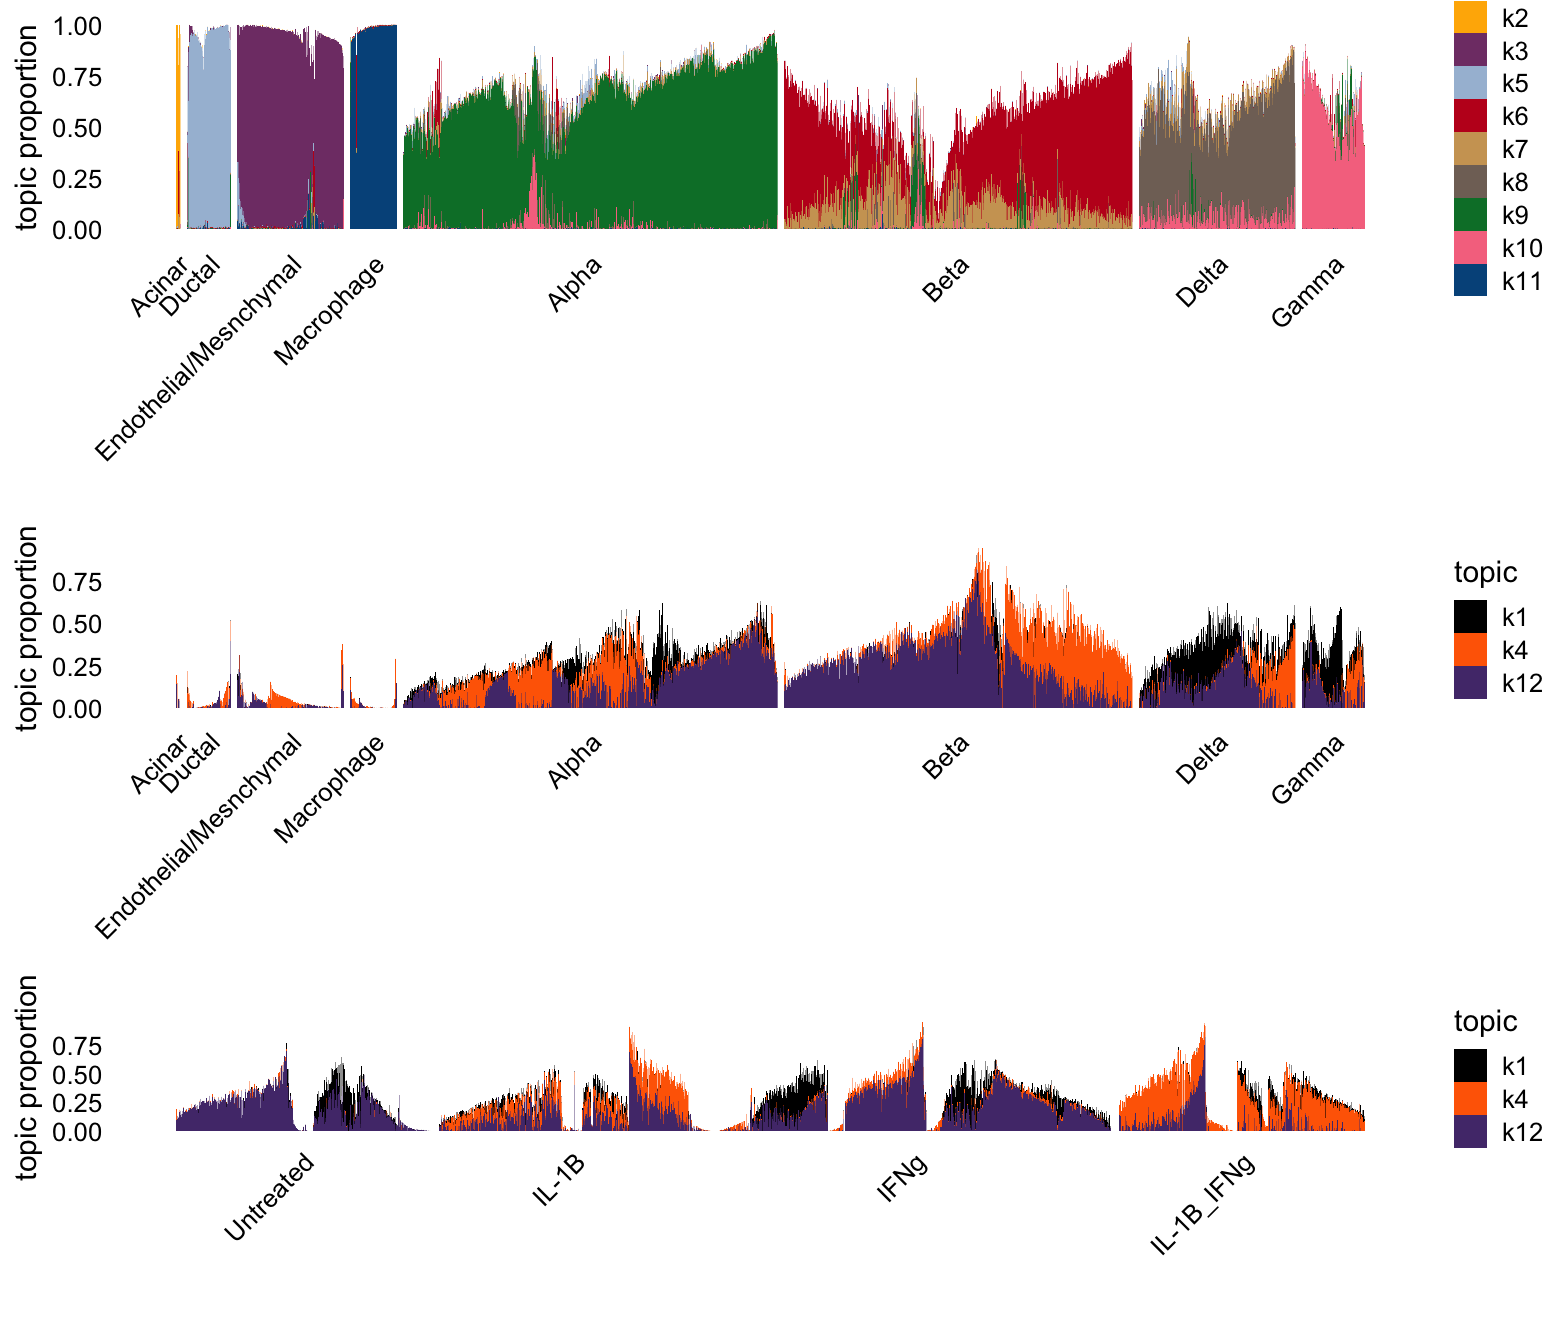
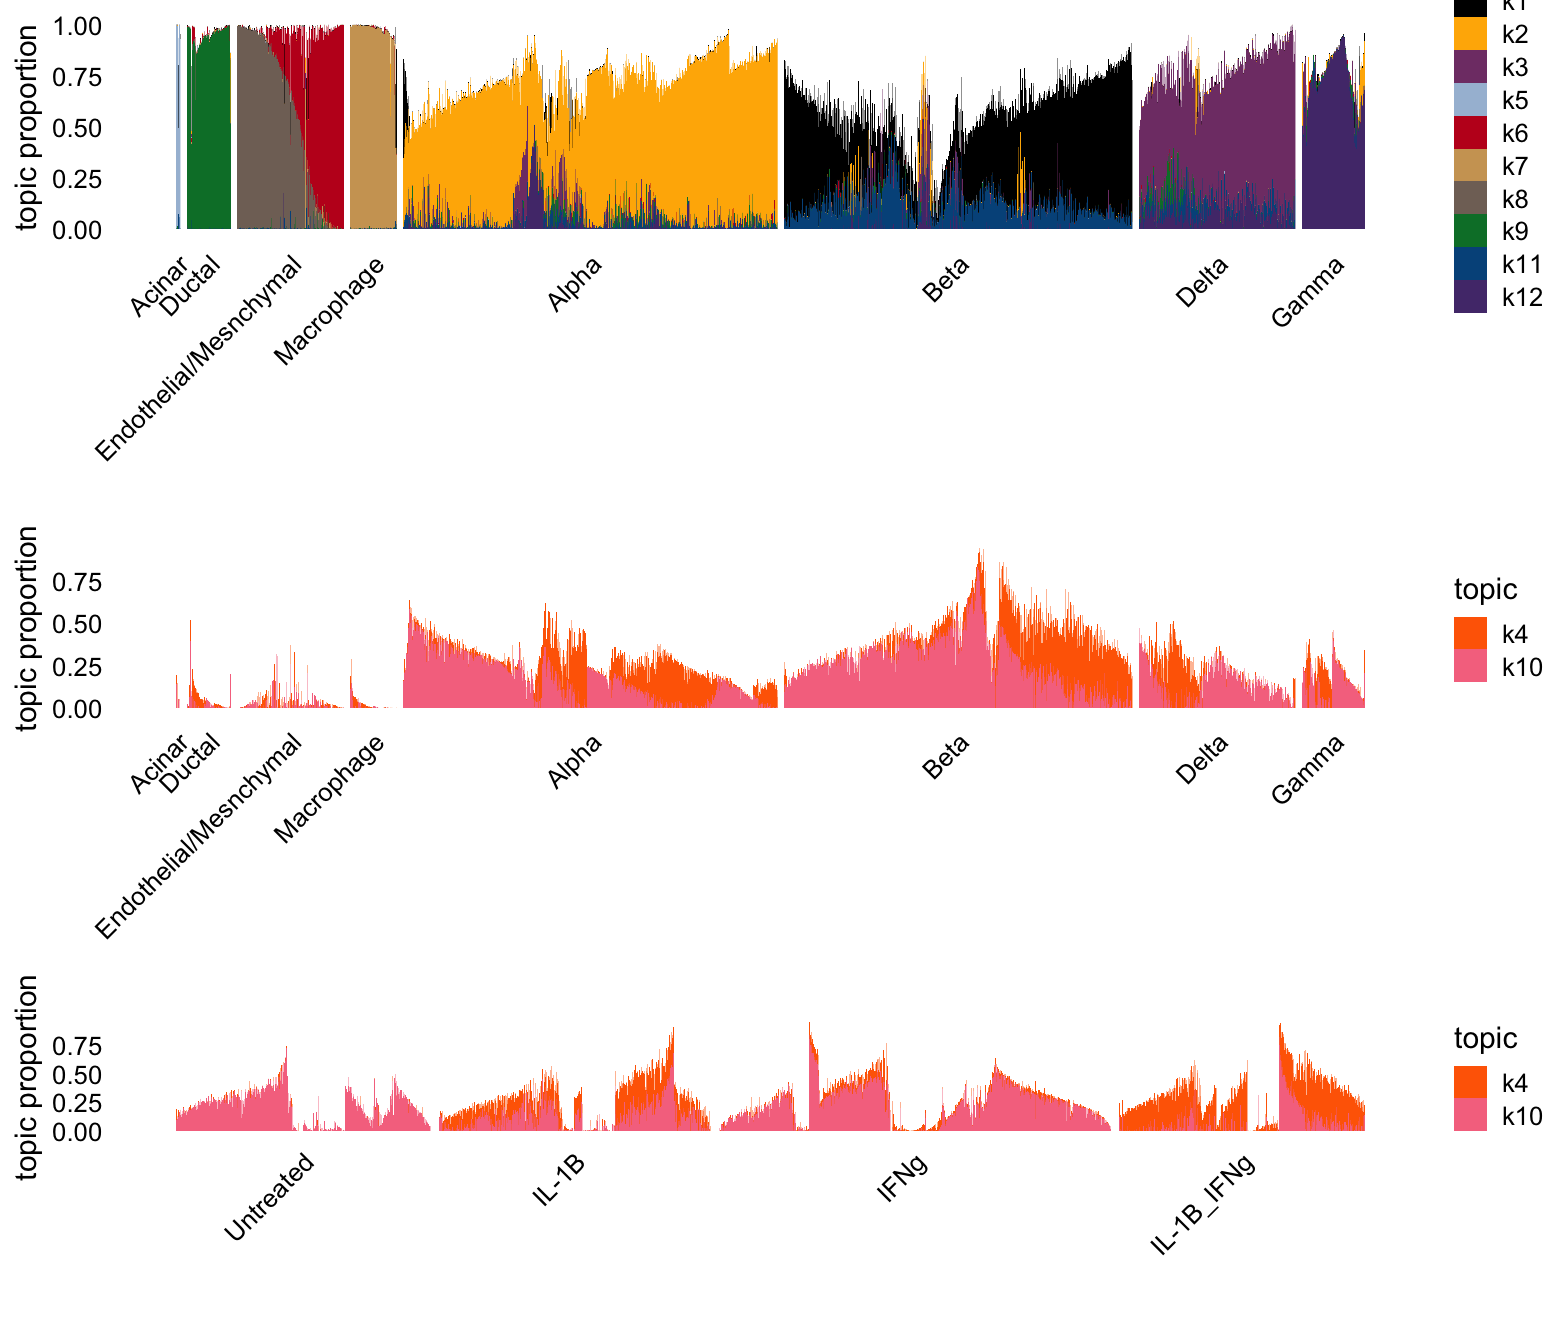
added K = 14 fits

diff --git a/docs/pancreas_cytokine_mf_comparison.html b/docs/pancreas_cytokine_mf_comparison.html
@@ -301,7 +301,7 @@ aria-hidden="true"></span> </a>
 <div class="tab-content">
 <div id="summary" class="tab-pane fade in active">
 <p>
-<strong>Last updated:</strong> 2025-06-23
+<strong>Last updated:</strong> 2025-07-07
 </p>
 <p>
 <strong>Checks:</strong> <span
@@ -436,15 +436,15 @@ project makes it easier to run your code on other machines.</p>
 <div class="panel panel-default">
 <div class="panel-heading">
 <p class="panel-title">
-<a data-toggle="collapse" data-parent="#workflowr-checks" href="#strongRepositoryversionstrongahrefhttpsgithubcomstephenslabsinglecelljamboreetree2e7cdf0f9bc109a16367ca66ac41ba8e974765f3targetblank2e7cdf0a">
+<a data-toggle="collapse" data-parent="#workflowr-checks" href="#strongRepositoryversionstrongahrefhttpsgithubcomstephenslabsinglecelljamboreetreeeb06be51c3f3b3bd8e3392eec83e519c30f6cc4btargetblankeb06be5a">
 <span class="glyphicon glyphicon-ok text-success"
 aria-hidden="true"></span> <strong>Repository version:</strong>
-<a href="https://github.com/stephenslab/single-cell-jamboree/tree/2e7cdf0f9bc109a16367ca66ac41ba8e974765f3" target="_blank">2e7cdf0</a>
+<a href="https://github.com/stephenslab/single-cell-jamboree/tree/eb06be51c3f3b3bd8e3392eec83e519c30f6cc4b" target="_blank">eb06be5</a>
 </a>
 </p>
 </div>
 <div
[2 lines of base64/hex data omitted]
 class="panel-collapse collapse">
 <div class="panel-body">
 <p>
@@ -454,7 +454,7 @@ reproducibility.
 </p>
 <p>
 The results in this page were generated with repository version
-<a href="https://github.com/stephenslab/single-cell-jamboree/tree/2e7cdf0f9bc109a16367ca66ac41ba8e974765f3" target="_blank">2e7cdf0</a>.
+<a href="https://github.com/stephenslab/single-cell-jamboree/tree/eb06be51c3f3b3bd8e3392eec83e519c30f6cc4b" target="_blank">eb06be5</a>.
 See the <em>Past versions</em> tab to see a history of the changes made
 to the R Markdown and HTML files.
 </p>
@@ -468,6 +468,9 @@ depends on. Below is the status of the Git repository when the results
 were generated:
 </p>
 <pre><code>
+Ignored files:
+    Ignored:    analysis/.Rhistory
+
 Untracked files:
     Untracked:  data/GSE156175_RAW/
     Untracked:  data/panc_cyto_lsa_tm_k12.rds
@@ -522,6 +525,40 @@ Message
 </tr>
 </thead>
 <tbody>
+<tr>
+<td>
+Rmd
+</td>
+<td>
+<a href="https://github.com/stephenslab/single-cell-jamboree/blob/3cf2b9b050e00d8ea58e362a1994724debd691ca/analysis/pancreas_cytokine_mf_comparison.Rmd" target="_blank">3cf2b9b</a>
+</td>
+<td>
+Eric Weine
+</td>
+<td>
+2025-06-23
+</td>
+<td>
+added code to fit models to pancreas LSA dataset
+</td>
+</tr>
+<tr>
+<td>
+html
+</td>
+<td>
+<a href="https://rawcdn.githack.com/stephenslab/single-cell-jamboree/3cf2b9b050e00d8ea58e362a1994724debd691ca/docs/pancreas_cytokine_mf_comparison.html" target="_blank">3cf2b9b</a>
+</td>
+<td>
+Eric Weine
+</td>
+<td>
+2025-06-23
+</td>
+<td>
+added code to fit models to pancreas LSA dataset
+</td>
+</tr>
 <tr>
 <td>
 html
@@ -633,7 +670,7 @@ added pancreas cytokine mf comparison
 </div>
 </div>
 </div>
-<p>This is our initial NMF analysis of ther Stancill 2021 LSA data
+<p>This is our initial NMF analysis of the Stancill 2021 LSA data
 set.</p>
 <p>Load the packages used in this analysis:</p>
 <pre class="r"><code>library(Matrix)
@@ -652,10 +689,10 @@ clusters   &lt;- factor(barcodes$celltype,
                        &quot;Alpha&quot;,&quot;Beta&quot;,&quot;Delta&quot;,&quot;Gamma&quot;))
 conditions &lt;- factor(barcodes$condition,
                      c(&quot;Untreated&quot;,&quot;IL-1B&quot;,&quot;IFNg&quot;,&quot;IL-1B_IFNg&quot;))</code></pre>
-<p>Fit the log1p models:</p>
+<p>Fit the log1p model:</p>
 <pre class="r"><code>cc_vec &lt;- c(1)
 
-K_vec &lt;- c(12, 15)
+K_vec &lt;- c(12)
 
 init_method_vec &lt;- c(&quot;rank1&quot;)
 
@@ -685,41 +722,66 @@ for (init_method in init_method_vec) {
   }
 
 }</code></pre>
-<p>Fit the topic models:</p>
-<pre class="r"><code>set.seed(1)
-tm_k12 &lt;- fit_poisson_nmf(
-  X = as(counts, &quot;CsparseMatrix&quot;),
-  k = 12,
-  control = list(nc = 7)
+<p>Fit the topic model:</p>
+<pre class="r"><code>fit0 &lt;- fastTopics:::fit_pnmf_rank1(counts)
+
+LL_init &lt;- cbind(
+  fit0$L,
+  matrix(
+    data = 1e-8,
+    nrow = nrow(counts),
+    ncol = 11
+  )
 )
 
-set.seed(1)
-tm_k15 &lt;- fit_poisson_nmf(
-  X = as(counts, &quot;CsparseMatrix&quot;),
-  k = 15,
+rownames(LL_init) &lt;- rownames(counts)
+
+FF_init &lt;- cbind(
+  fit0$F,
+  matrix(
+    data = 1e-8,
+    nrow = ncol(counts),
+    ncol = 11
+  )
+)
+
+rownames(FF_init) &lt;- colnames(counts)
+
+nmf_fit &lt;- init_poisson_nmf(
+  X = counts,
+  F = FF_init,
+  L = LL_init
+)
+
+nmf_fit_final &lt;- fit_poisson_nmf(
+  X = counts, 
+  fit0 = nmf_fit, 
+  numiter = 250,
   control = list(nc = 7)
 )</code></pre>
 <div id="topic-model-k-12" class="section level2">
 <h2>Topic model, K = 12</h2>
 <p>Here, I attempt to separate out fitted topics based on their
 association with either celltype or treatment.</p>
-<pre class="r"><code>tm_k12 &lt;- read_rds(&quot;../output/panc_cyto_lsa_res/tm_k12.rds&quot;)</code></pre>
+<pre class="r"><code>tm_k12 &lt;- read_rds(
+  &quot;../output/panc_cyto_lsa_res/stancill_lsa_k12_r1_init_250_iter.rds&quot;
+  )</code></pre>
 <p>The topic model appears to have more factors that are specific to
 celltype, and fewer that seem to capture the treatment effects.</p>
 <pre class="r"><code>set.seed(1)
-celltype_topics &lt;- c(2:3,5:11)
-other_topics &lt;- c(1,4,12)
+celltype_topics &lt;- c(1,2,3,5,6,7,8,9,11,12)
+other_topics &lt;- c(4,10)
 topic_colors &lt;- fastTopics:::kelly()[c(2:12,14)]
 i &lt;- c(sample(which(clusters == &quot;Beta&quot;),800),
        which(clusters != &quot;Beta&quot;))
 L &lt;- poisson2multinom(tm_k12)$L
 p1 &lt;- structure_plot(L[i,],grouping = clusters[i],gap = 15,n = Inf,
-                     topics = celltype_topics,colors = topic_colors)$plot   
+                     topics = celltype_topics,colors = topic_colors)    
 p2 &lt;- structure_plot(L[i,],grouping = clusters[i],gap = 15,n = Inf,
-                     topics = other_topics,colors = topic_colors)$plot
+                     topics = other_topics,colors = topic_colors)
 p3 &lt;- structure_plot(L[i,],grouping = conditions[i],gap = 20,n = Inf,
-                     topics = other_topics,colors = topic_colors)$plot
-plot_grid(p1,p2,p3,nrow = 3,ncol = 1,rel_heights = c(3.3,3,2))</code></pre>
+                     topics = other_topics,colors = topic_colors)
+plot_grid(p1$plot,p2$plot,p3$plot,nrow = 3,ncol = 1,rel_heights = c(3.3,3,2))</code></pre>
 <p><img src="figure/pancreas_cytokine_mf_comparison.Rmd/structure-plot-topic-model-k12-1.png" width="780" style="display: block; margin: auto;" /></p>
 <p>
 <button type="button" class="btn btn-default btn-xs btn-workflowr btn-workflowr-fig" data-toggle="collapse" data-target="#fig-structure-plot-topic-model-k12-1">
@@ -745,6 +807,17 @@ Date
 <tbody>
 <tr>
 <td>
+<a href="https://github.com/stephenslab/single-cell-jamboree/blob/3cf2b9b050e00d8ea58e362a1994724debd691ca/docs/figure/pancreas_cytokine_mf_comparison.Rmd/structure-plot-topic-model-k12-1.png" target="_blank">3cf2b9b</a>
+</td>
+<td>
+Eric Weine
+</td>
+<td>
+2025-06-23
+</td>
+</tr>
+<tr>
+<td>
 <a href="https://github.com/stephenslab/single-cell-jamboree/blob/2e7cdf0f9bc109a16367ca66ac41ba8e974765f3/docs/figure/pancreas_cytokine_mf_comparison.Rmd/structure-plot-topic-model-k12-1.png" target="_blank">2e7cdf0</a>
 </td>
 <td>
@@ -758,9 +831,30 @@ Peter Carbonetto
 </table>
 </div>
 </div>
-<p>Topic 1 appears to be non-IL-1B specific, whereas topic 4 appears to
-be a general cytokine effect (but perhaps moreso capturing the effects
-of IL-1B).</p>
+</div>
+<div id="topic-model-k-14" class="section level2">
+<h2>Topic Model, K = 14</h2>
+<p>To make sure that the above inability of the topic model to capture
+treatments, I wanted to see if anything changed when I gave the topic
+model 2 additional topics.</p>
+<pre class="r"><code>tm_k14 &lt;- read_rds(
+  &quot;../output/panc_cyto_lsa_res/stancill_lsa_k14_r1_init_250_iter.rds&quot;
+  )</code></pre>
+<pre class="r"><code>set.seed(1)
+celltype_topics &lt;- c(1,2,3,5,7,8,9,10,12,13)
+other_topics &lt;- c(4,6,11,14)
+#topic_colors &lt;- fastTopics:::kelly()[c(2:12,14)]
+i &lt;- c(sample(which(clusters == &quot;Beta&quot;),800),
+       which(clusters != &quot;Beta&quot;))
+L &lt;- poisson2multinom(tm_k14)$L
+p1 &lt;- structure_plot(L[i,],grouping = clusters[i],gap = 15,n = Inf,
+                     topics = celltype_topics)  
+p2 &lt;- structure_plot(L[i,],grouping = clusters[i],gap = 15,n = Inf,
+                     topics = other_topics)
+p3 &lt;- structure_plot(L[i,],grouping = conditions[i],gap = 20,n = Inf,
+                     topics = other_topics)
+plot_grid(p1$plot,p2$plot,p3$plot,nrow = 3,ncol = 1,rel_heights = c(3.3,3,2))</code></pre>
+<p><img src="figure/pancreas_cytokine_mf_comparison.Rmd/structure-plot-topic-model-k14-1.png" width="780" style="display: block; margin: auto;" /></p>
 </div>
 <div id="poisson-log1p-nmf-k-12" class="section level2">
 <h2>Poisson log1p NMF, K = 12</h2>
@@ -769,8 +863,6 @@ class="math inline">\(K =
 12\)</span>.</p>
 <pre class="r"><code>log1p_k12 &lt;- read_rds(file.path(&quot;../output/panc_cyto_lsa_res&quot;,
                &quot;lsa_pancreas_cytokine_log1p_c1_rank1_init_K12.rds&quot;))</code></pre>
-<p>Here are the factors that appeared most correlated with cell
-type.</p>
 <pre class="r"><code>scale_cols &lt;- function (A, b)
   t(t(A) * b)
 set.seed(1)
@@ -814,6 +906,17 @@ Date
 <tbody>
 <tr>
 <td>
+<a href="https://github.com/stephenslab/single-cell-jamboree/blob/3cf2b9b050e00d8ea58e362a1994724debd691ca/docs/figure/pancreas_cytokine_mf_comparison.Rmd/structure-plot-log1p-nmf-k12-1.png" target="_blank">3cf2b9b</a>
+</td>
+<td>
+Eric Weine
+</td>
+<td>
+2025-06-23
+</td>
+</tr>
+<tr>
+<td>
 <a href="https://github.com/stephenslab/single-cell-jamboree/blob/2e7cdf0f9bc109a16367ca66ac41ba8e974765f3/docs/figure/pancreas_cytokine_mf_comparison.Rmd/structure-plot-log1p-nmf-k12-1.png" target="_blank">2e7cdf0</a>
 </td>
 <td>
@@ -827,6 +930,32 @@ Peter Carbonetto
 </table>
 </div>
 </div>
+</div>
+<div id="log1p-model-k-14" class="section level2">
+<h2>log1p Model, K = 14</h2>
+<p>I also wanted to look at what adding 2 topics to the log1p model
+would do.</p>
+<pre class="r"><code>log1p_k14 &lt;- read_rds(file.path(&quot;../output/panc_cyto_lsa_res&quot;,
+               &quot;log1p_k14_lsa.rds&quot;))</code></pre>
+<pre class="r"><code>scale_cols &lt;- function (A, b)
+  t(t(A) * b)
+set.seed(1)
+celltype_topics = c(1,2,3,5,6,10,11,13,14)
+other_topics &lt;- c(4,7,8,9,12)
+L &lt;- log1p_k14$LL
+d &lt;- apply(L,2,max)
+L &lt;- scale_cols(L,1/d)
+p1 &lt;- structure_plot(L[i,],grouping = clusters[i],gap = 15,n = Inf,
+                     topics = celltype_topics)$plot +
+  labs(y = &quot;membership&quot;,fill = &quot;&quot;)                   
+p2 &lt;- structure_plot(L[i,],grouping = clusters[i],gap = 15,n = Inf,
+                     topics = other_topics)$plot +
+  labs(y = &quot;membership&quot;,fill = &quot;&quot;)
+p3 &lt;- structure_plot(L[i,],grouping = conditions[i],gap = 30,n = Inf,
+                     topics = other_topics)$plot +
+  labs(y = &quot;membership&quot;,fill = &quot;&quot;)                   
+plot_grid(p1,p2,p3,nrow = 3,ncol = 1)</code></pre>
+<p><img src="figure/pancreas_cytokine_mf_comparison.Rmd/structure-plot-log1p-nmf-k14-1.png" width="780" style="display: block; margin: auto;" /></p>
 <p>NOTE: UPDATE THIS TEXT. The pockets of purple and yellow in the beta
 cell cluster may represent cells that were misclassified (though it is
 very hard to tell). Here, it appears that the pink factor is specific to
